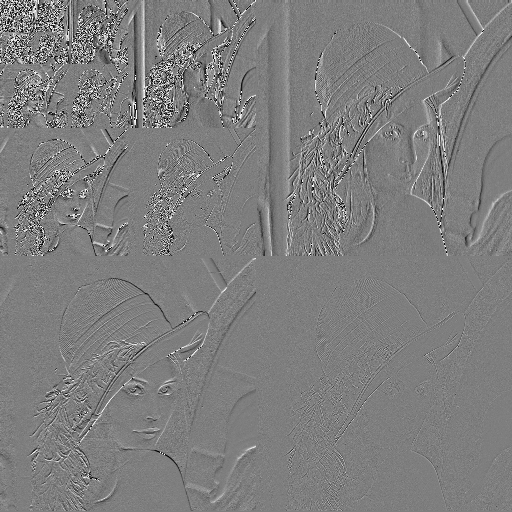
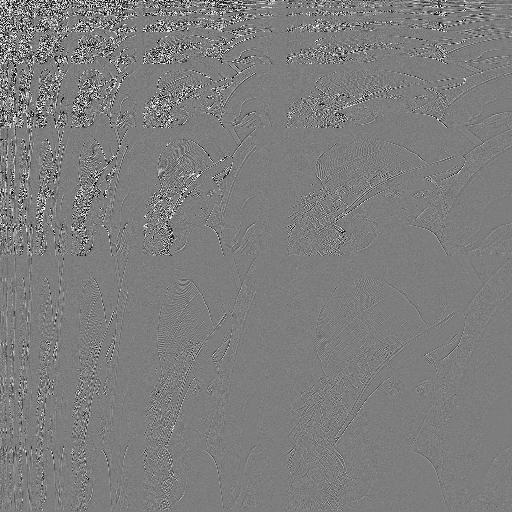
minors

diff --git a/Haar.py b/Haar.py
@@ -27,7 +27,7 @@ def kd_test_decomp_recon_on_image():
     # std decomp
     print("decomp")
     normalized=True
-    std=False
+    std=True
 
     image_values=decomposition_2d(image_values, normalized=normalized, standard=std)
 
@@ -101,7 +101,7 @@ def kd_test_compression_on_image():
 
 def kd_test_color_compression_on_yuv_image():
     # load lenna as 2d RGB array
-    image_values = np.array(Image.open('img/Lenna.png'))
+    image_values = np.array(Image.open('img/Lenna_1024.jpg'))
     print(image_values.shape)
     print(image_values[0,0])
 
@@ -119,7 +119,7 @@ def kd_test_color_compression_on_yuv_image():
 
     # save img
     image_values=image_values.astype(np.uint8)
-    Image.fromarray(image_values).save("img/Lenna_YUV_COMP.png")
+    Image.fromarray(image_values).save("img/Lenna_1024_YUV_COMP.png")
     return
 
 def compression_2d_yuv(image_values,
@@ -282,6 +282,28 @@ def truncate_elements_abs_below_threshold(image_values, threshold):
     truncated = before - after
     return image_values, truncated
 
+def decomposition_2d_with_steps(image_values, normalized=True, standard=True, img_list=None):
+    # Only on squared images
+
+    #normalize
+
+    #start with whole array
+    until=_read_min_dim(image_values)
+
+    while until>=2:
+        for i in range(0, int(until)):
+            image_values[i] = _decomposition_step(image_values[i], until, normalized)
+
+
+
+        for i in range(0, int(until)):
+            image_values[:, i] = _decomposition_step(image_values[:, i], until, normalized)
+
+
+        coefficients=_decomposition_step(coefficients, until, normalized)
+        until/=2
+
+    return image_values
 
 def decomposition_2d(image_values, normalized=True, standard=True, img_list=None):
     # Haar decomposition of a 2D array inplace

diff --git a/images.py b/images.py
@@ -7,16 +7,17 @@ import os
 import matplotlib.pyplot as plt
 
 #TODO: @Dennis: Zwischenschritte: alle? oder reicht das so?
-#TODO: Werte, die bleiben sollen ungefähr ok?
-# Preprocessing: Nur compression auf 60 coefficients?
+# - "lib" kann das soweit, reichen die "test"-Fkt?
+# - nur auf shapes zur Basis 2
+# - Werte, die bleiben sollen ungefähr ok?
+# - Preprocessing: Nur compression auf 60 coefficients?
 
 #TODO CR
 # main & params
 # function calls with params
 
 #TODO KD
-# haar 2d
-# other stuff ;)
+#
 image_path = None
 def load_args():
     global image_path
@@ -26,7 +27,7 @@ def load_args():
     parser.add_argument('--yuv', action="store_true")
 
     #TODO:
-    # normaliziert: --norm (default true)
+    # normalized: --norm (default true)
     # standard/ non standard: --non-std (default false)
     # repair render
     #TODO: get params
@@ -59,7 +60,7 @@ def main():
     Haar.kd_test_decomp_recon_on_image()
     #Haar.kd_test_compression_on_image()
     #Haar.kd_test_color_compression_on_yuv_image()
-    #exit(0)
+    exit(0)
 
     img_list=[None]*8
     #for i in range(0,8):
